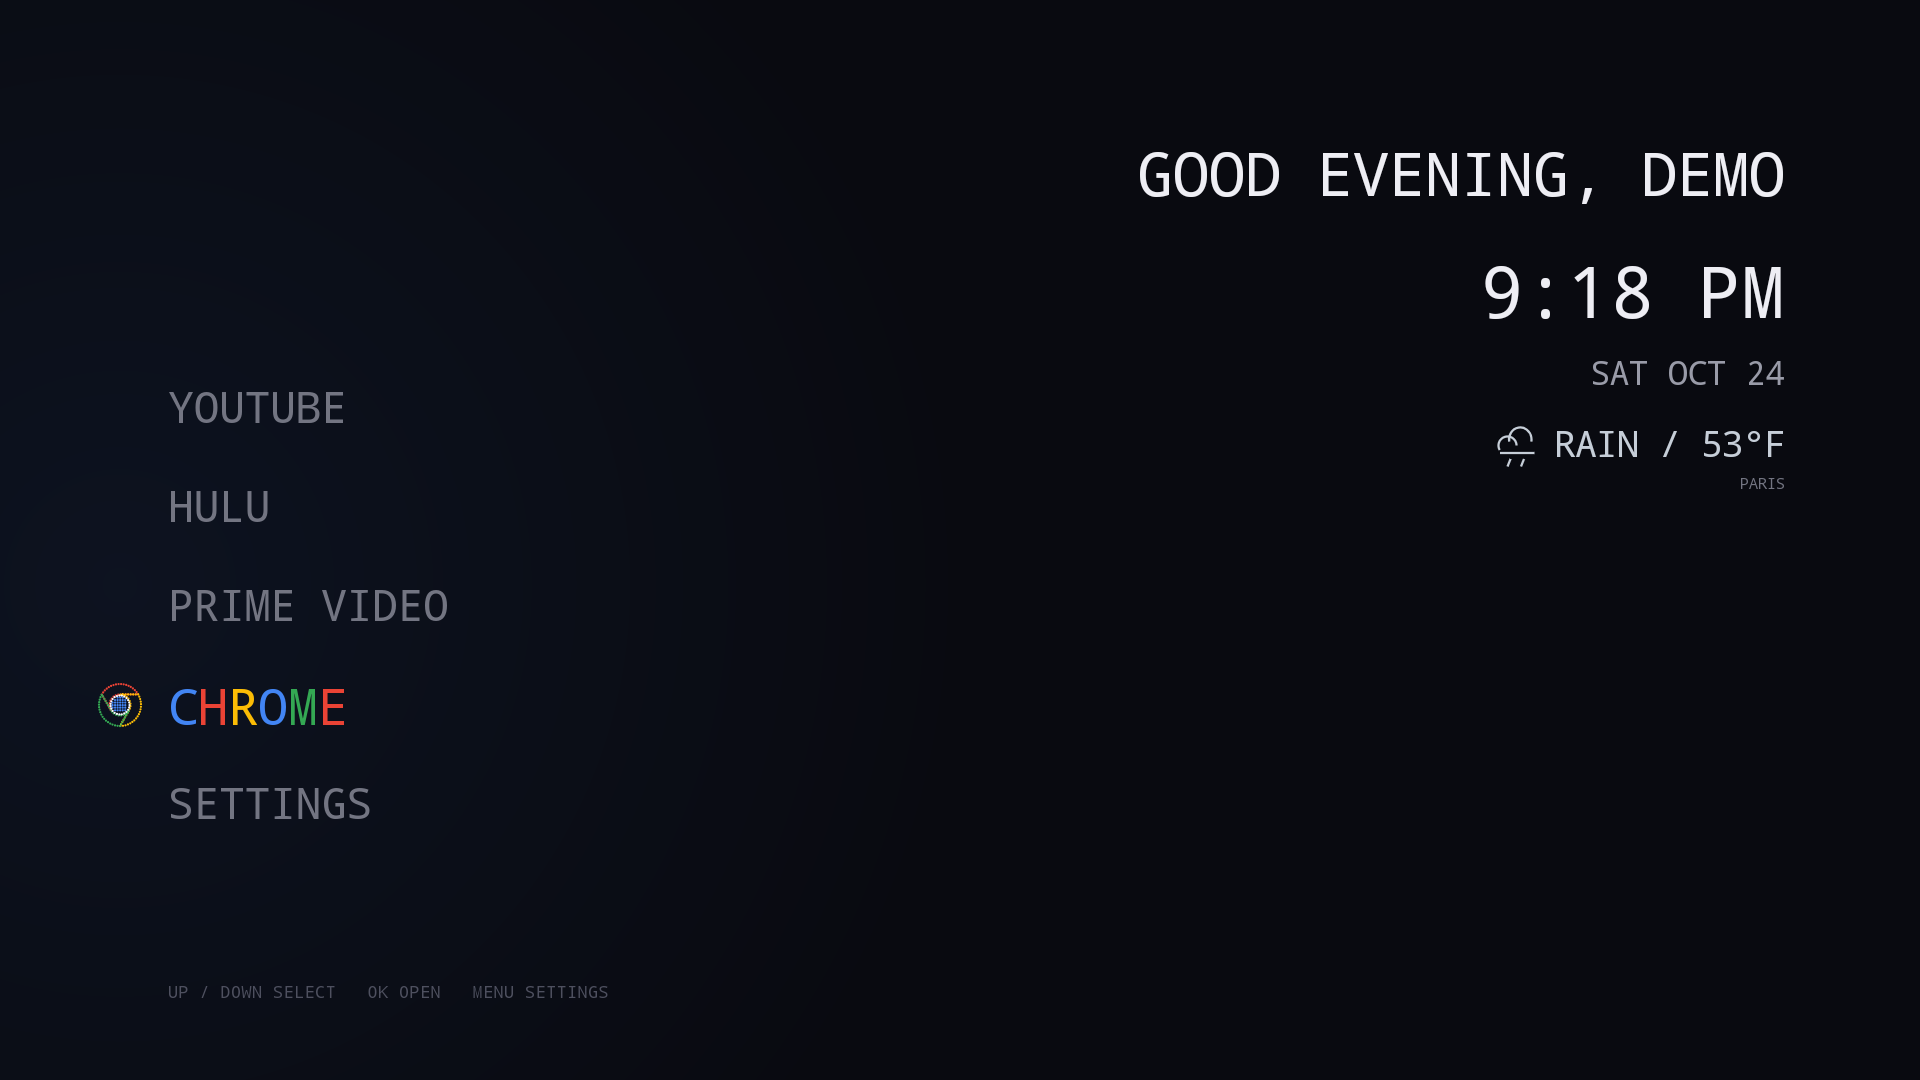
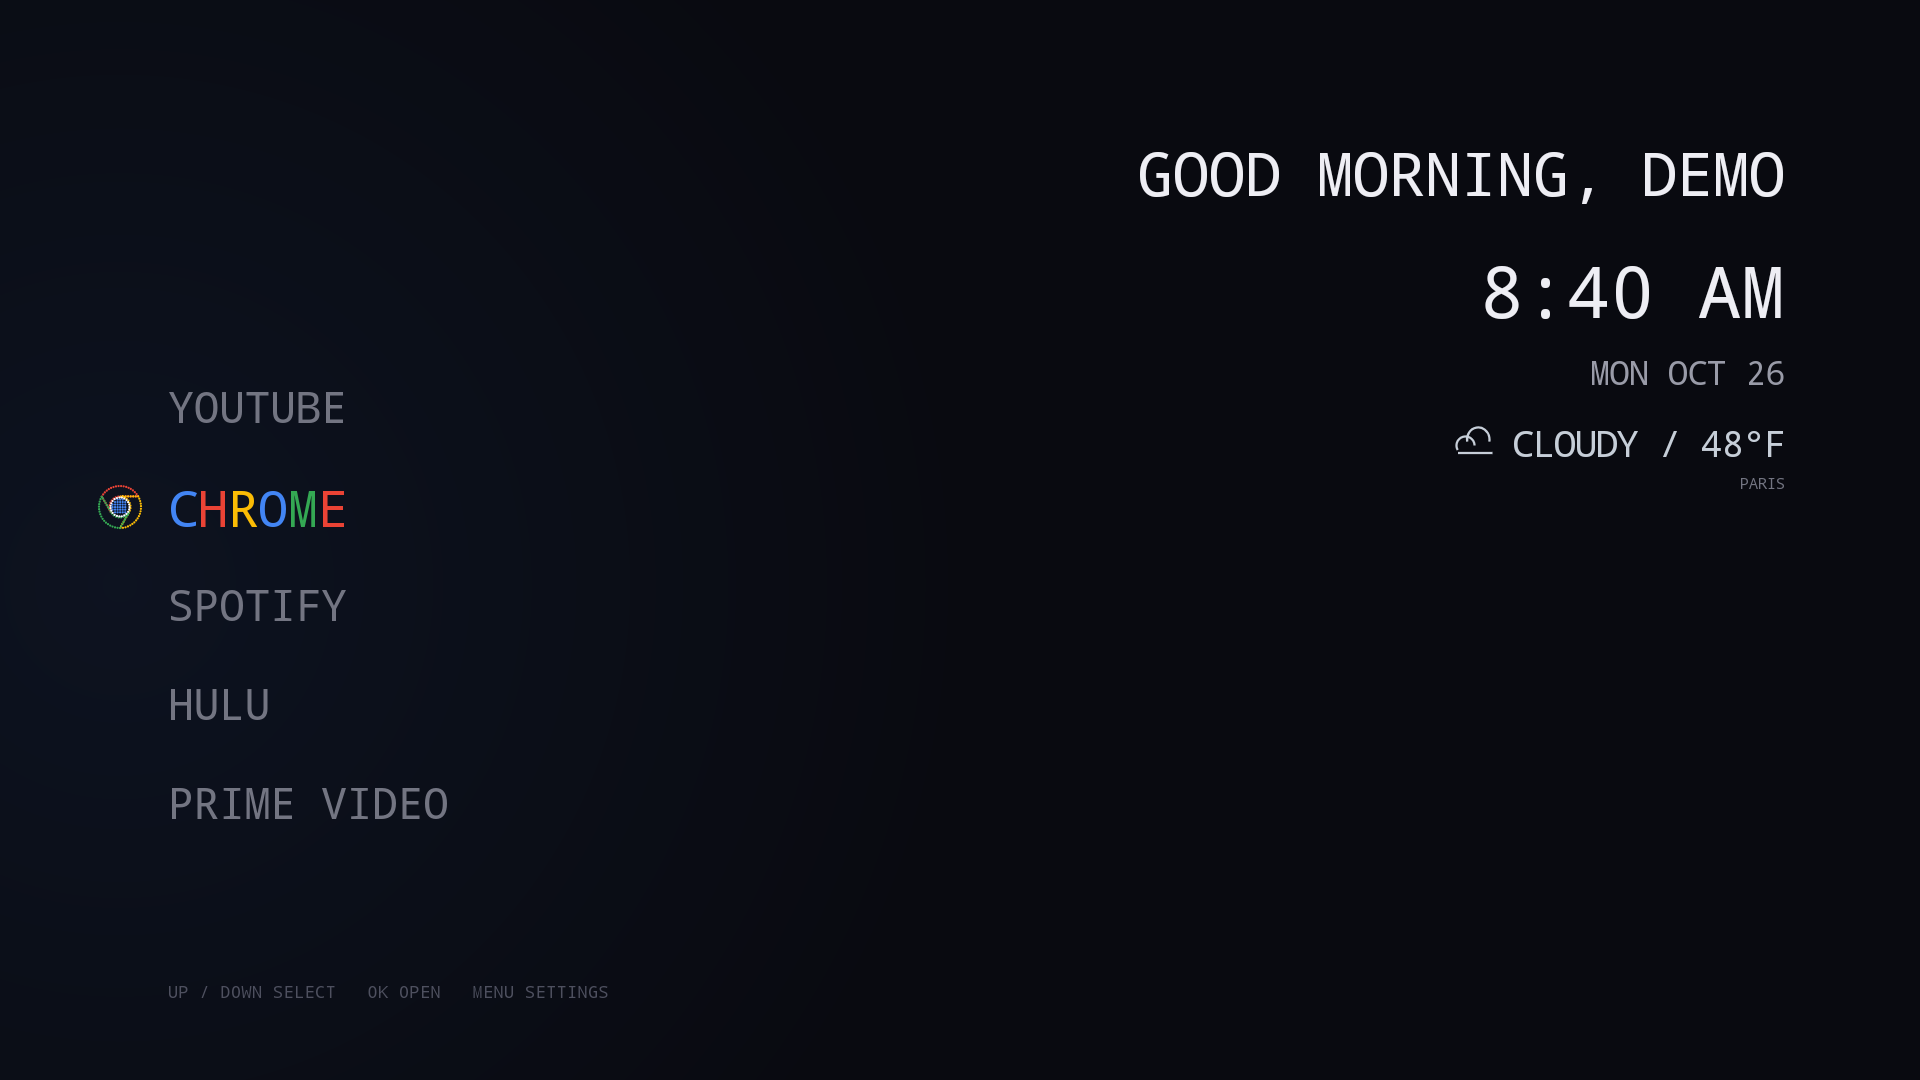
Refresh showcase with twelve current demo screenshots

diff --git a/docs/VALIDATION.md b/docs/VALIDATION.md
@@ -77,3 +77,8 @@ Menus now use solid dark panels, a subtle border, compact monospace headings and
 
 Both personal and shared builds compile. The 76 readable-label checks passed again on the Fire TV runtime. On the production TV, verified settings navigation, opening/cancelling greeting entry, preserved app checkbox selections with Save/Back visible, Upcoming All matches/My teams, Tomorrow browsing, match details and Back, fresh-open reset to All matches, Past scores and the Highlights/Open match page/Back actions, and full text inside the panel. Device captures include the user's existing night-screen overlay and remain local. First-time setup renders its dynamic controls with the shared style; the full setup flow was not rerun on the personalized production installation. App data and the pre-redesign APK/source snapshot were retained.
 Menu focus refinement: list selectors and row backgrounds are transparent, and action buttons retain the same neutral fill/border across focus states. Only the selected/focused text changes to amber; checked indicators keep their existing saved-state color. Both variants build. On the TV with the night filter off, checked the first and second settings rows: the amber text moves with the remote selection, without a filled or outlined selection bar. The earlier menu version and app data were preserved.
+## Showcase capture refresh — October 26, 2026
+
+Replaced all nine earlier showcase captures and added settings, upcoming matches, and match details, for 12 fresh 1920×1080 images from the current shared preview build. The separate preview used the generic name Demo and Paris for weather/time; its Home helper, light matching, and night filter were off. The main home/appearance/setup/widget images leave optional CS off; it was enabled only in preview for the match screenshots. Skies use the built-in Sunrise, Sunset, and Night previews while the real clock continues running. Match screenshots show real source data captured that day, not a fabricated live broadcast.
+
+Visually reviewed all 12 images for the current text-only focus style, full readable labels, correct scene/screen, and absence of personal details. Validated every README image link and PNG dimensions. The capture-only preview app was removed afterward and the personal launcher was brought back to the foreground. No production preferences, app order, source behavior, credentials, or signing material were changed or published by this refresh. Earlier showcase images/README are backed up locally.

diff --git a/README.md b/README.md
@@ -35,6 +35,12 @@ Each supported app has its own color, lettering treatment, and dotted brand-insp
 | --- | --- |
 | ![Hulu selected with a green logo and matching glow](docs/images/public-hulu.png) | ![Chrome-inspired multicolor browser shortcut](docs/images/public-chrome.png) |
 
+## Menus that stay out of the way
+
+![Quiet TV settings with amber text-only selection](docs/images/menus.png)
+
+Dark panels, compact controls, and a simple amber text highlight keep settings consistent with the home screen. Long labels wrap so you can read the full option.
+
 ## Set it up once, adjust it whenever you like
 
 | First-time setup | Widget controls |
@@ -55,7 +61,7 @@ The Chrome-inspired shortcut opens **Amazon Silk**. It changes the label and vis
 | --- | --- |
 | ![Sunrise preview with morning desert colors](docs/images/sunrise.png) | ![Night sky with stars and a crescent moon](docs/images/idle.png) |
 
-These are captures from the TV. Sunrise and sunset use the app's built-in sky previews; the clock continues to show the actual time. The scene is drawn locally rather than playing a background video.
+These are captures from the TV using a separate demo profile named **Demo**, with **Paris** selected for weather and local time. The sky scenes use the app's built-in previews; the clock continues to show the actual time. The scene is drawn locally rather than playing a background video.
 
 ## Optional Counter-Strike widget
 
@@ -64,9 +70,15 @@ Counter-Strike is **off by default and absent from first-time setup**. Enable it
 Follow teams from **Team favorites** in match details or the CS options menu. Favorite teams get amber stars and priority within the existing two live cards. Upcoming and Past matches offer **All matches / My teams** filters while preserving their date order. Favorites start empty, stay on the device, and add no polling or accounts.
 
 <details>
-<summary>See the optional match-results view</summary>
+<summary>See upcoming matches, past scores, and highlights</summary>
 
-![Optional Counter-Strike final scores](docs/images/results.png)
+| Upcoming matches | Past matches |
+| --- | --- |
+| ![Optional Counter-Strike daily schedule](docs/images/upcoming.png) | ![Optional Counter-Strike final scores](docs/images/results.png) |
+
+![Finished-match details with Highlights, Open match page, and Back](docs/images/match-details.png)
+
+The match views use real provider data captured at the time shown. They illustrate the interface, not a current match-status report.
 
 </details>
 
